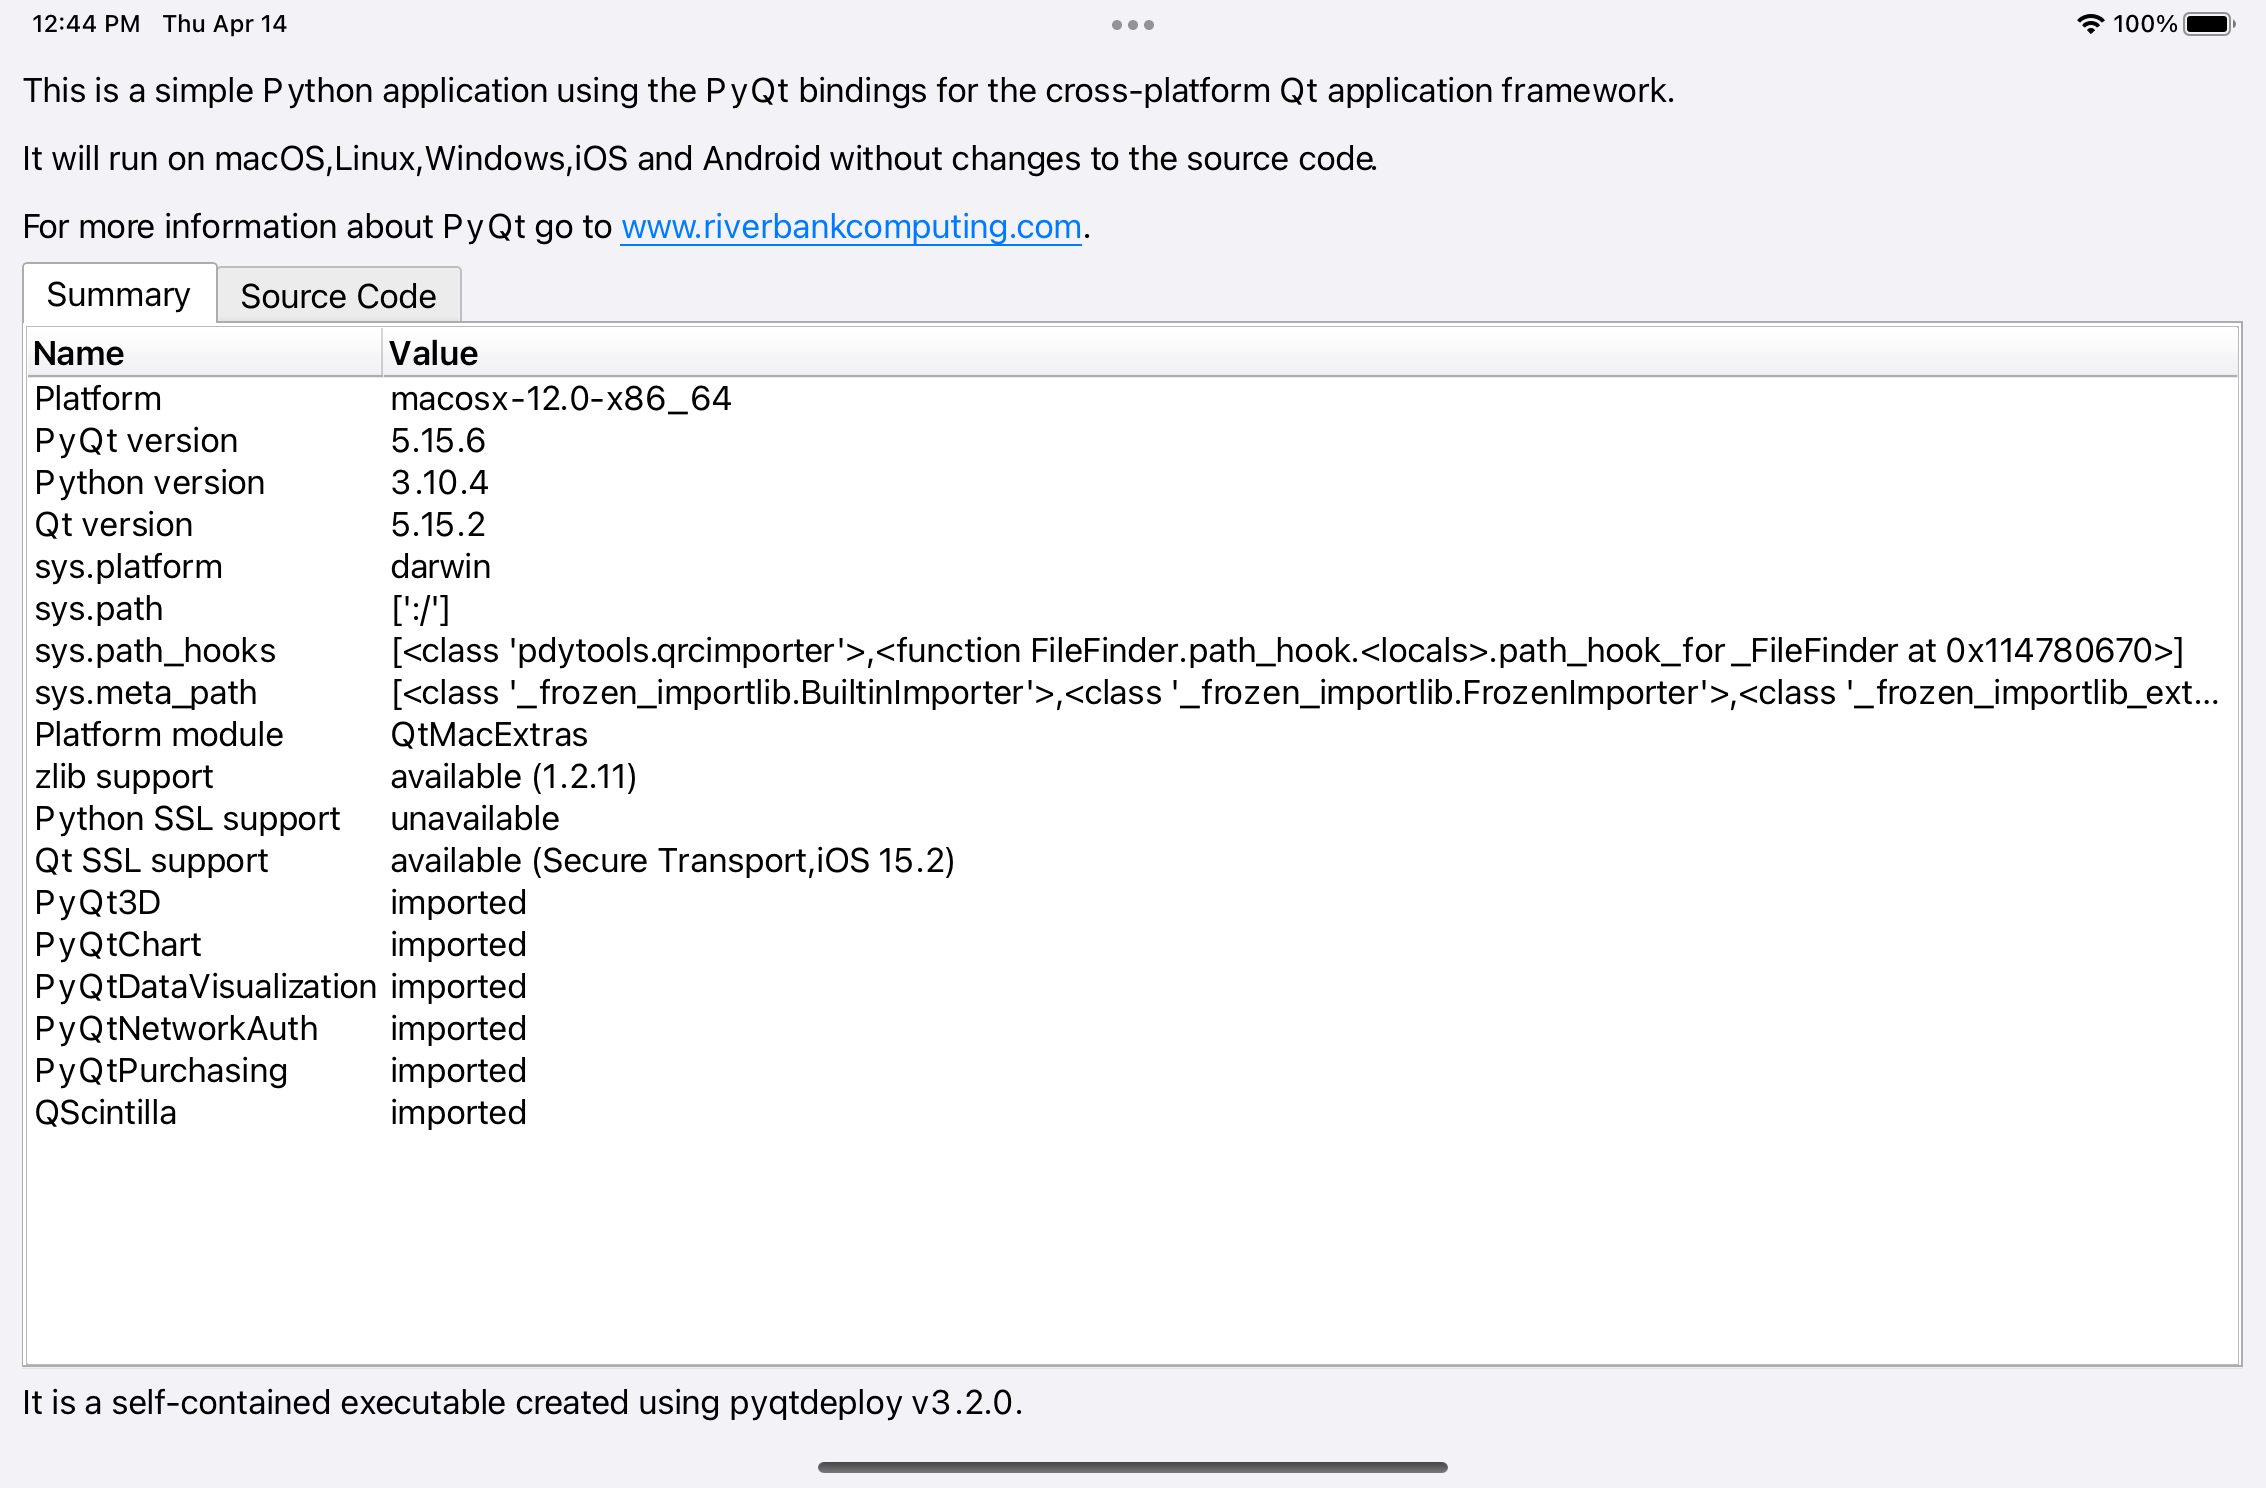
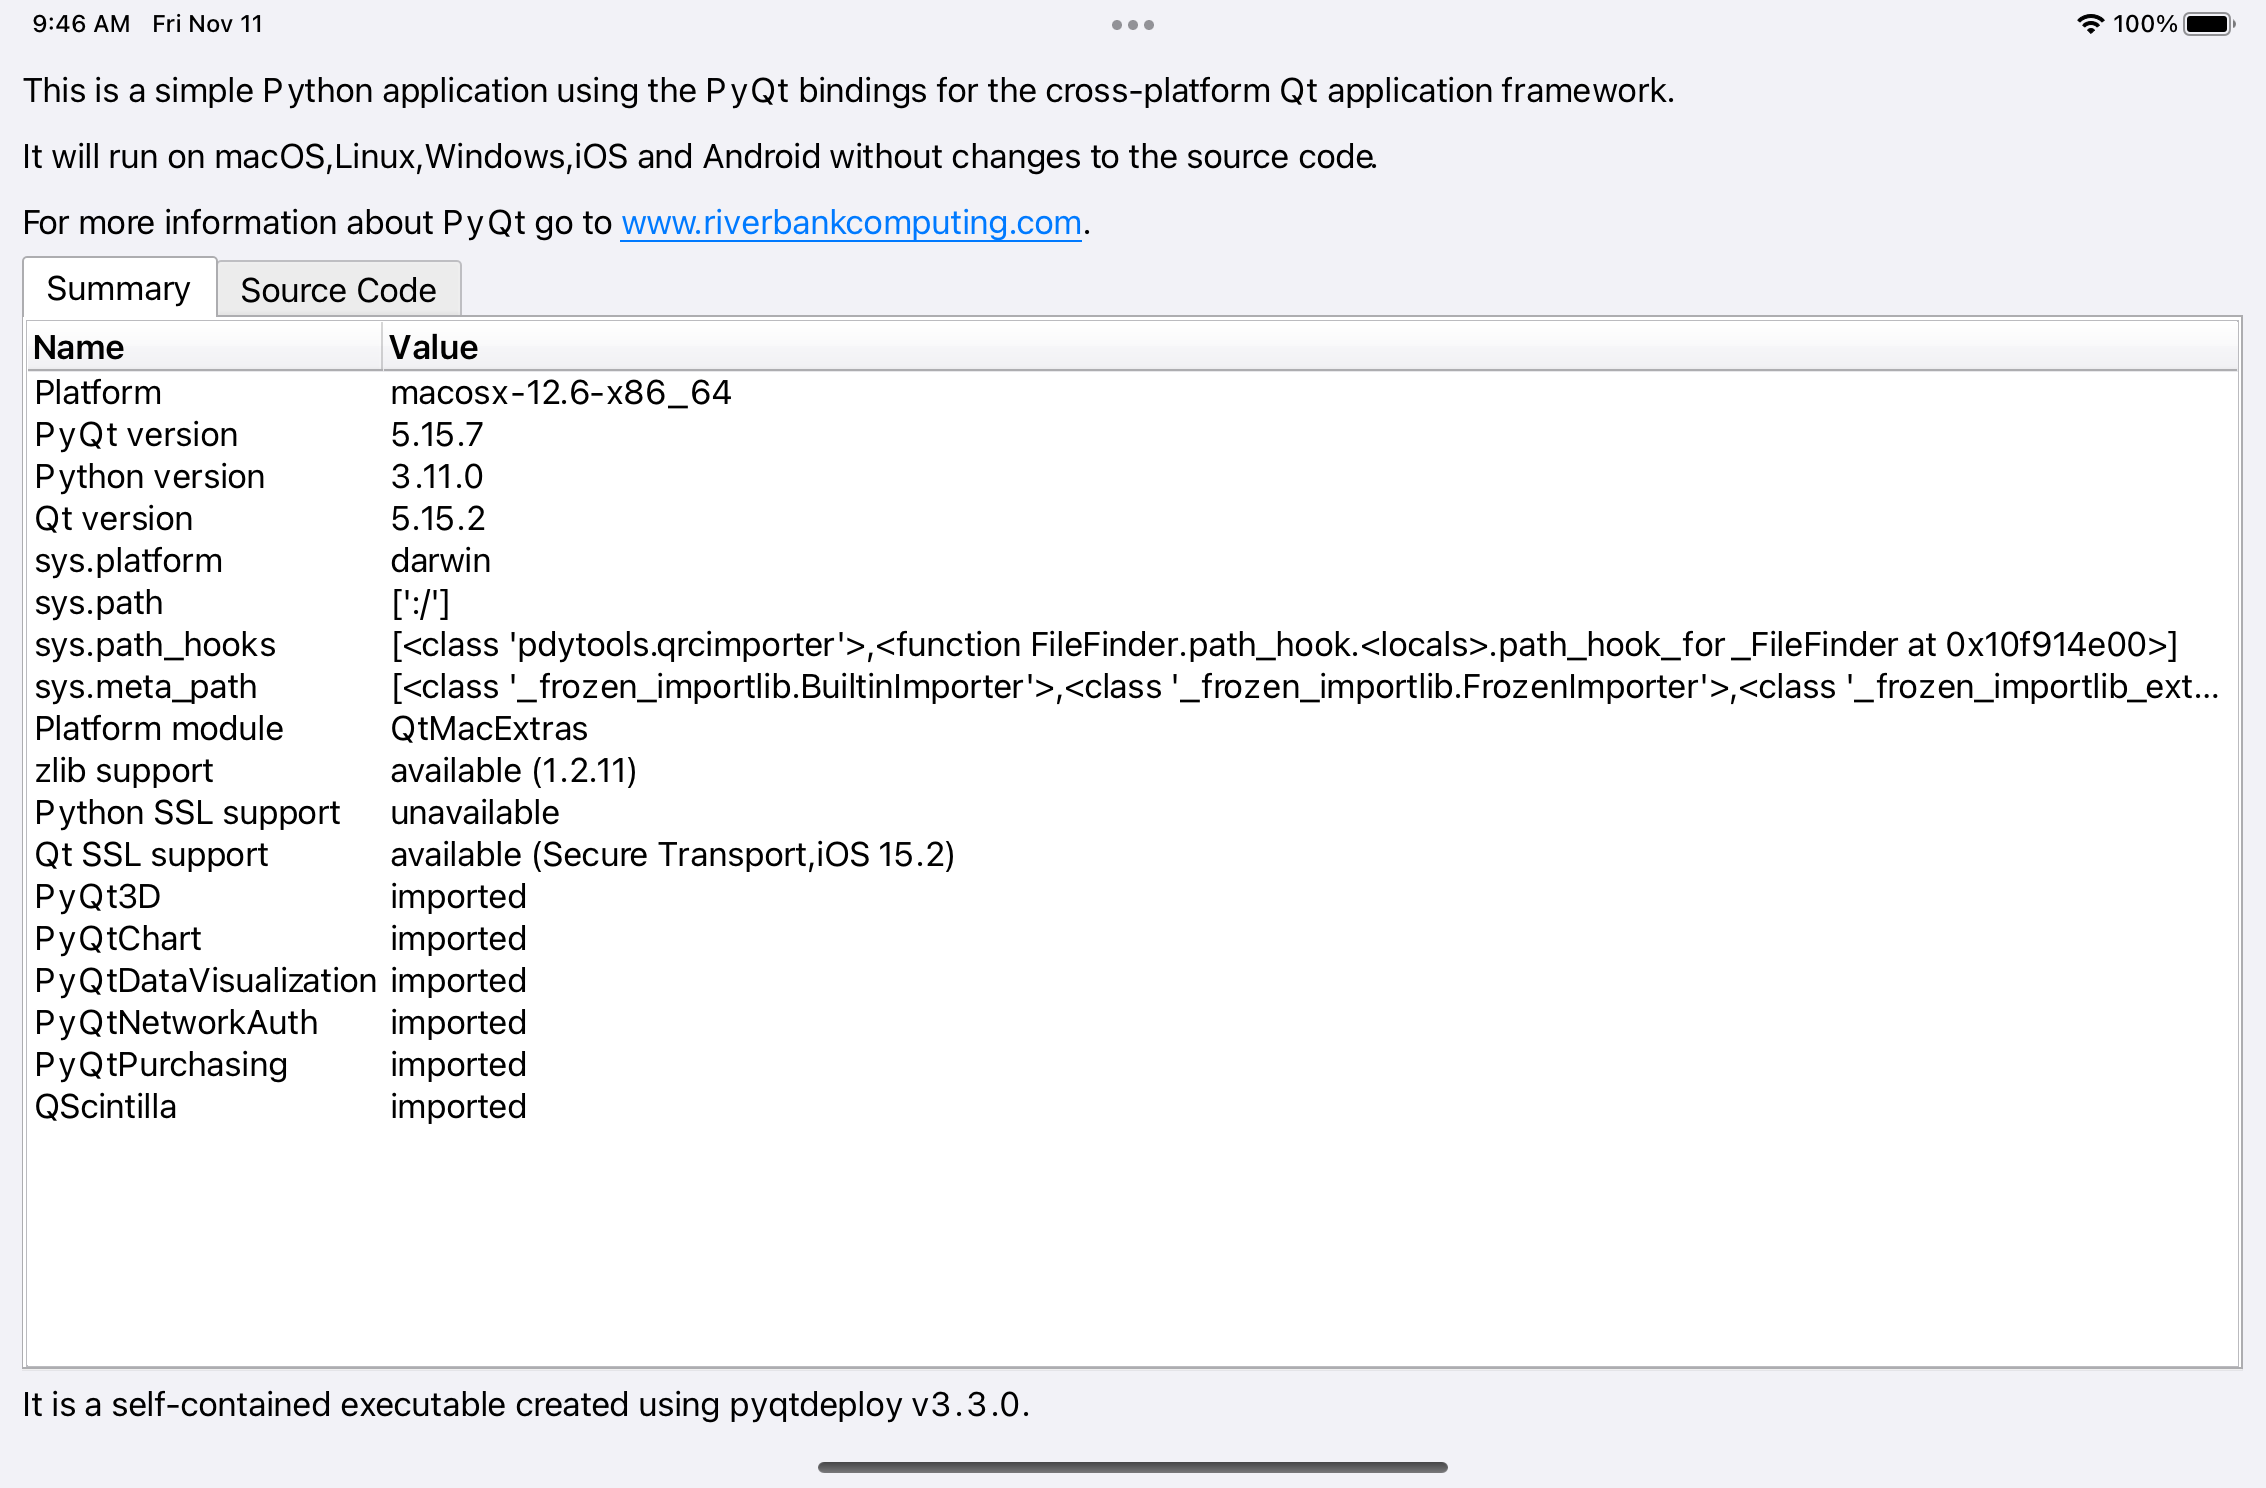
Updated the demo screenshot for iOS.

Changed region(s): [[0.0, 0.0927, 0.9885, 0.7728], [0.0309, 0.9274, 0.4634, 0.9583], [0.0, 0.0, 0.1236, 0.0309]]

diff --git a/doc/demo.rst b/doc/demo.rst
@@ -108,7 +108,7 @@ iOS
 .. image:: /images/pyqt-demo-ios-64.png
     :align: center
 
-**Host platform used:** macOS Monterey (v12.0.1)
+**Host platform used:** macOS Monterey (v12.6.1)
 
 **Development tools used:** Xcode v13.2.1
 
